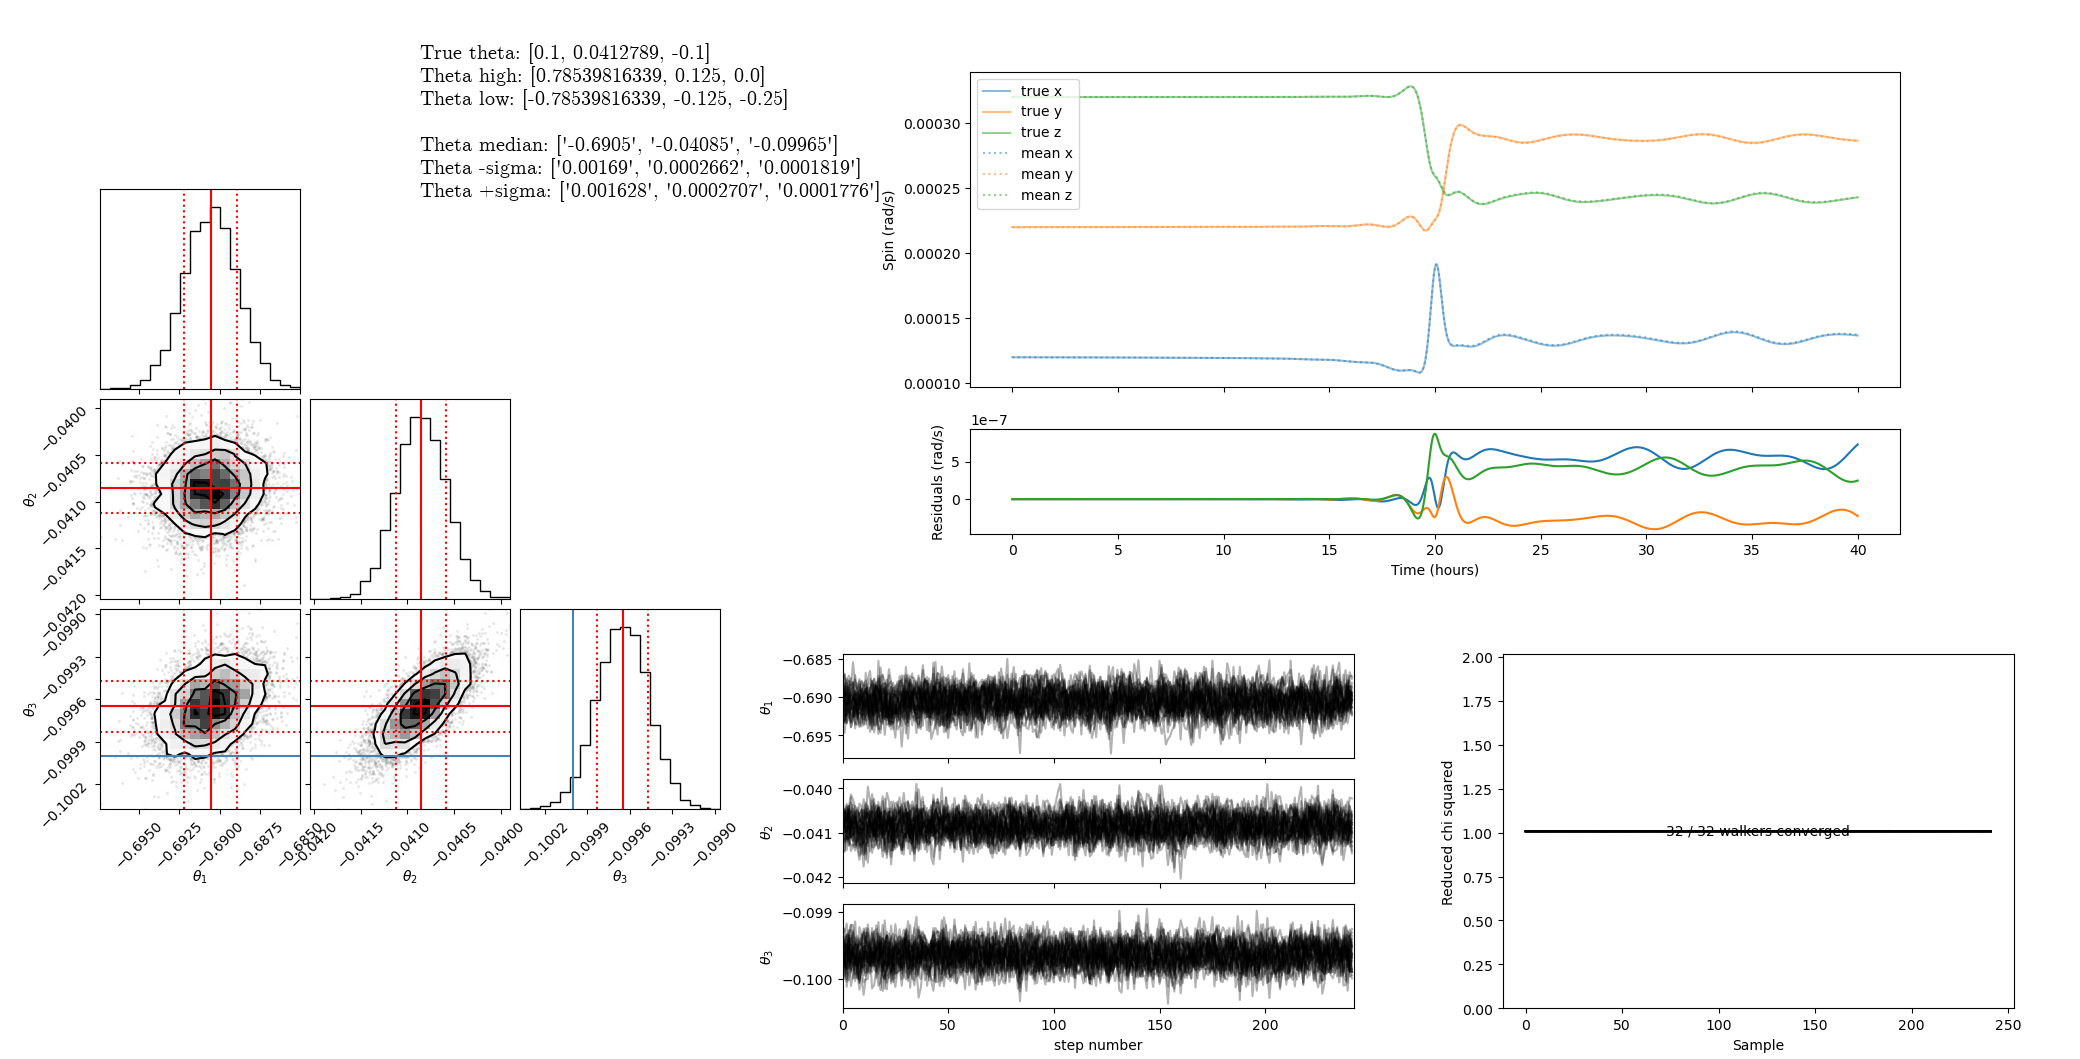
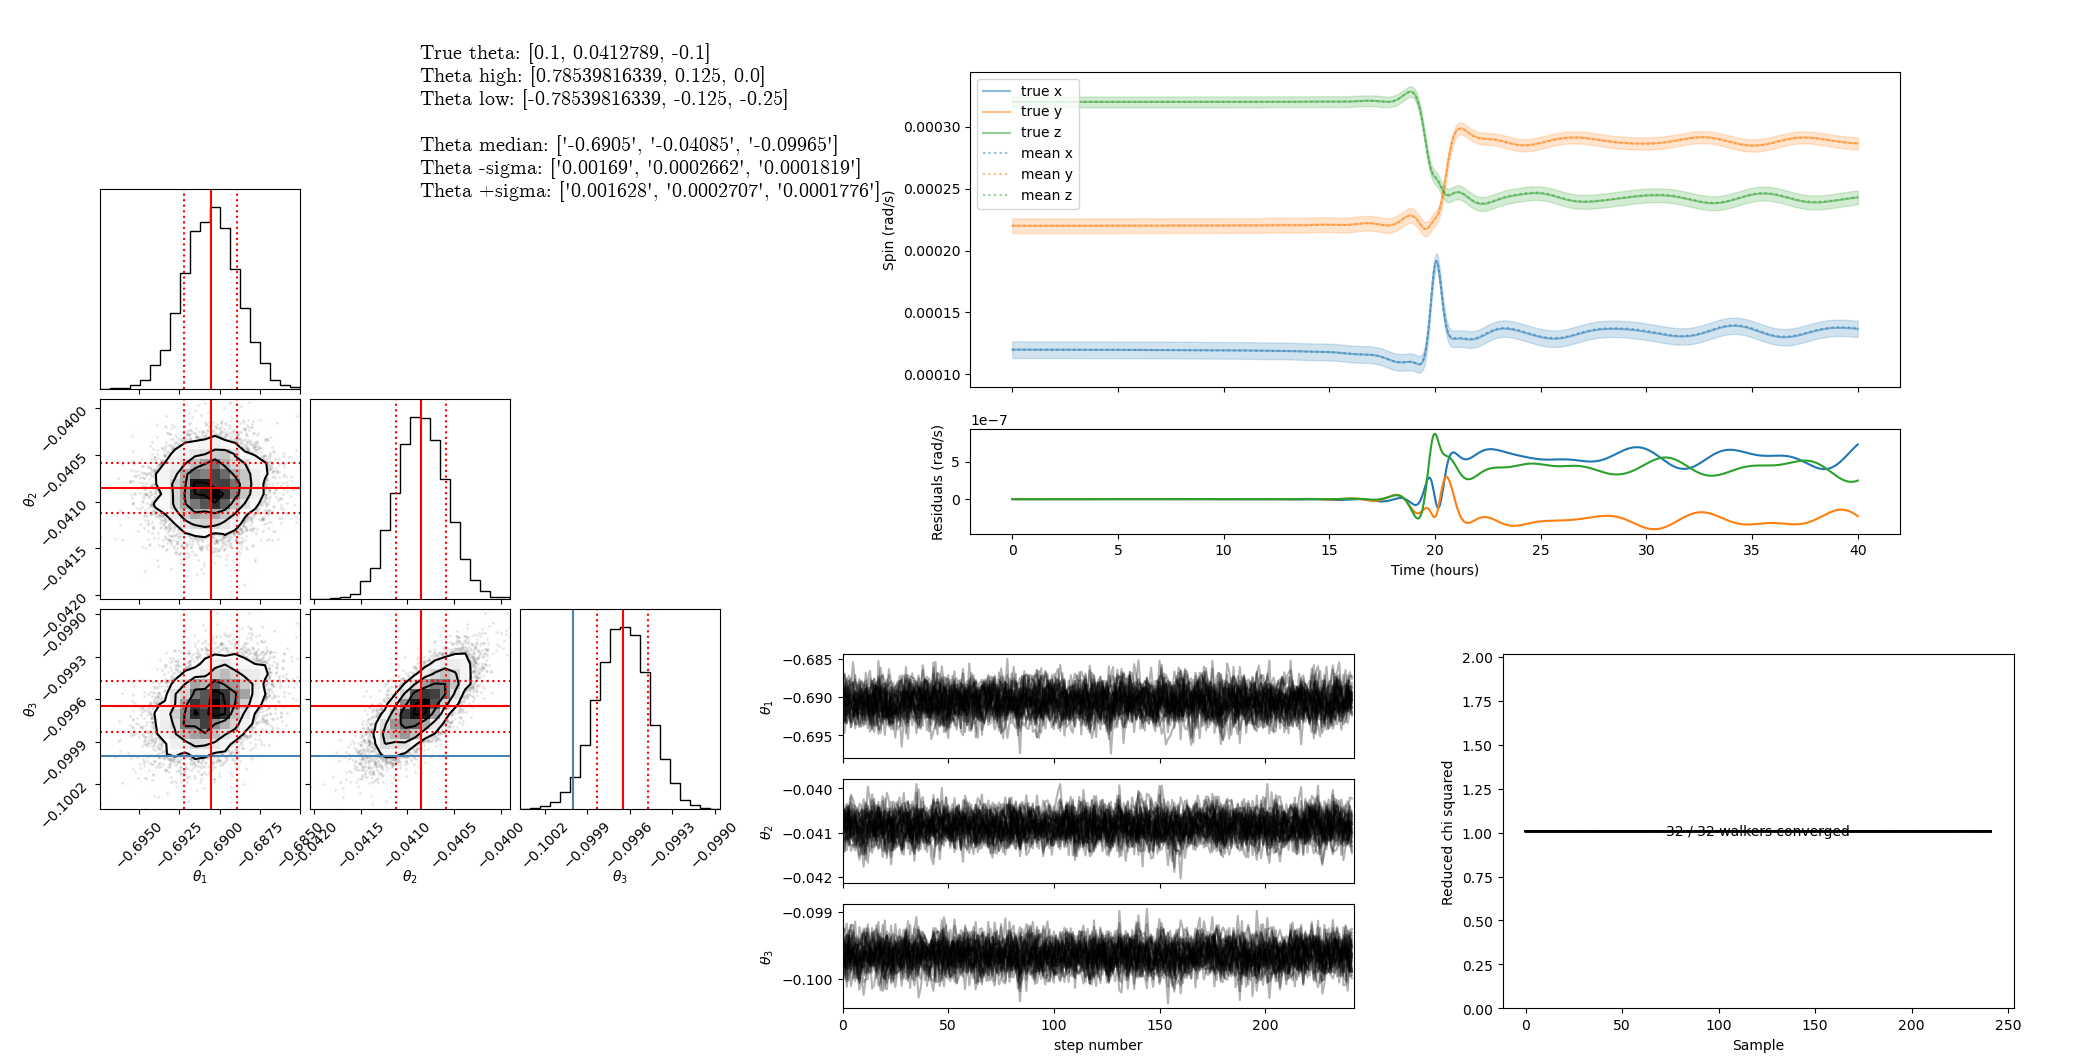
L=3 Converged!

diff --git a/code/fit_resolved/display.py b/code/fit_resolved/display.py
@@ -8,6 +8,7 @@ else:
     import test_0_2 as asteroids_0_3
 import numpy as np
 import matplotlib.pyplot as plt
+import random_vector
 
 EARTH_RADIUS = 6370000
 STANDARD_RESULTS_METHOD = False
@@ -155,7 +156,7 @@ class Display:
         self.theta_true = [float(x) for x in f.readline().split(',')]
         theta_high = np.asarray([float(x) for x in f.readline().split(',')])
         theta_low = np.asarray([float(x) for x in f.readline().split(',')])
-        sigma = float(f.readline()) * np.sqrt(self.spin[0]**2 + self.spin[1]**2 + self.spin[2]**2)
+        self.sigma = float(f.readline()) * np.sqrt(self.spin[0]**2 + self.spin[1]**2 + self.spin[2]**2)
         f.close()
 
         if self.maxj == 0:
@@ -209,6 +210,7 @@ class Display:
         theta_results = [f[0] for f in self.get_results()]
         if self.true_results is None:
             self.true_results = self.run(self.theta_true)
+        _, true_error = random_vector.randomize_rotate(self.true_results, self.sigma)
         mean_res = self.run(theta_results)
 
         f, (ax1, ax2) = plt.subplots(2, 1, gridspec_kw={'height_ratios': [3, 1]}, figsize=(12, 6), sharex=True)
@@ -217,6 +219,13 @@ class Display:
         ax1.plot(x_display, self.true_results[::3], label = 'true x', alpha=0.5, color='C0')
         ax1.plot(x_display, self.true_results[1::3], label = 'true y', alpha=0.5, color='C1')
         ax1.plot(x_display, self.true_results[2::3], label = 'true z', alpha=0.5, color='C2')
+
+        ax1.fill_between(x_display, self.true_results[::3] + true_error[::3],
+            self.true_results[::3] - true_error[::3], color="C0", alpha=0.2)
+        ax1.fill_between(x_display, self.true_results[1::3] + true_error[1::3],
+            self.true_results[1::3] - true_error[1::3], color="C1", alpha=0.2)
+        ax1.fill_between(x_display, self.true_results[2::3] + true_error[2::3],
+            self.true_results[2::3] - true_error[2::3], color="C2", alpha=0.2)
 
         if mean_res is not None:
             ax1.plot(x_display, mean_res[::3], label = 'mean x', alpha=0.5, linestyle='dotted', color='C0')

diff --git a/code/fit_resolved/fit.py b/code/fit_resolved/fit.py
@@ -366,8 +366,8 @@ def mcmc_fit(theta_start, evals, evecs, index):
         print("Done")
 
 for i, (theta, evals, evecs) in enumerate(kernel):
-    #pass
-    mcmc_fit(theta, evals, evecs, i)
+    pass
+    #mcmc_fit(theta, evals, evecs, i)
 
 
 ####################################################################
@@ -389,7 +389,7 @@ while True:
     disp.show_corner()
     disp.show_compare()
     disp.show_results()
-    #plt.show()
+    plt.show()
     if not collect.collect(output_name + "-" + str(i), output_name):
         break
     del disp

diff --git a/data/pull-summary.py b/data/pull-summary.py
@@ -17,5 +17,5 @@ for fname in os.listdir("../staged/"):
             break
         i += 1
 
-    #os.rename("../staged/{0}.dat".format(fname), "{1}/{0}/{0}.dat".format(fname, PATH))
+    os.rename("../staged/{0}.dat".format(fname), "{1}/{0}/{0}.dat".format(fname, PATH))
     print(fname)

diff --git a/code/shape/ellipsoids.py b/code/shape/ellipsoids.py
@@ -13,11 +13,10 @@ xs = np.linspace(-RADIUS, RADIUS, SHAPE[0])
 MAX_L = 2
 RLMS = []
 volume_element = DELTA**3
-
 TRUE = np.asarray([
     1,
     0, 0, 0,
-    0, 0, 0, 0, -0.1])
+    0.0412789, 0, 0, 0, -0.1])
 ERROR = np.asarray([
     EPS,
     EPS, EPS, EPS,

diff --git a/data/minimizer/readme.md b/data/minimizer/readme.md
@@ -37,3 +37,11 @@ It is now the weekend. I spent a long time on this code, building a test model w
 I'm using run 9 as my test, which contains both l=2 and l=3. I've also adjusted the fit and pull code so that the corner plotting happens on the cluster. That way, I don't get memory problems, and I don't have to store GB of data locally.
 
 I had to introduce a fix that took the abs of the eigenvalues, because I wasn't getting pos def Hessians. Fix this in the future.
+
+## Oct 16
+
+The fit that was run on Oct 10 finally completed, and everything worked! All of it! All the fits converged, and I compiled the data and sent it to Julien. The next step is to check how convergence depends on different parameters, all listed in these slides.
+
+https://docs.google.com/presentation/d/1MnxdqLsHV0_Zz0K89QB5WmE6kMjzDtfWsZxUnFayEhw/edit?usp=sharing
+
+This will be done in a later data bundle. As for now, the goal of this one was go get high order convergence with the minimization technique, which has been achieved.

diff --git a/readme.md b/readme.md
@@ -24,14 +24,12 @@ In both the resolved and unresolved cases, we will build a simulation to generat
 
 ## Not done:
 Immediate:
-1. Run higher order Kl fits
-2. Run fits with pure J2, J4, etc. coefficients.
-3. Write up everything in a summary
-4. Fix the minimization process such that it always yields positive definite Hessians and zero Jacobians.
+1. Scan for scenarios with interesting behavior
+2. Write up everything in a summary
+3. Fix the minimization process such that it always yields positive definite Hessians and zero Jacobians.
 
 Much later:
-1. Show that moons can be added to perturb the Jlms.
-2. Ask about two asteroids?
+2. Ask about two asteroids, or rings?
 
 
 ### Resolved case
